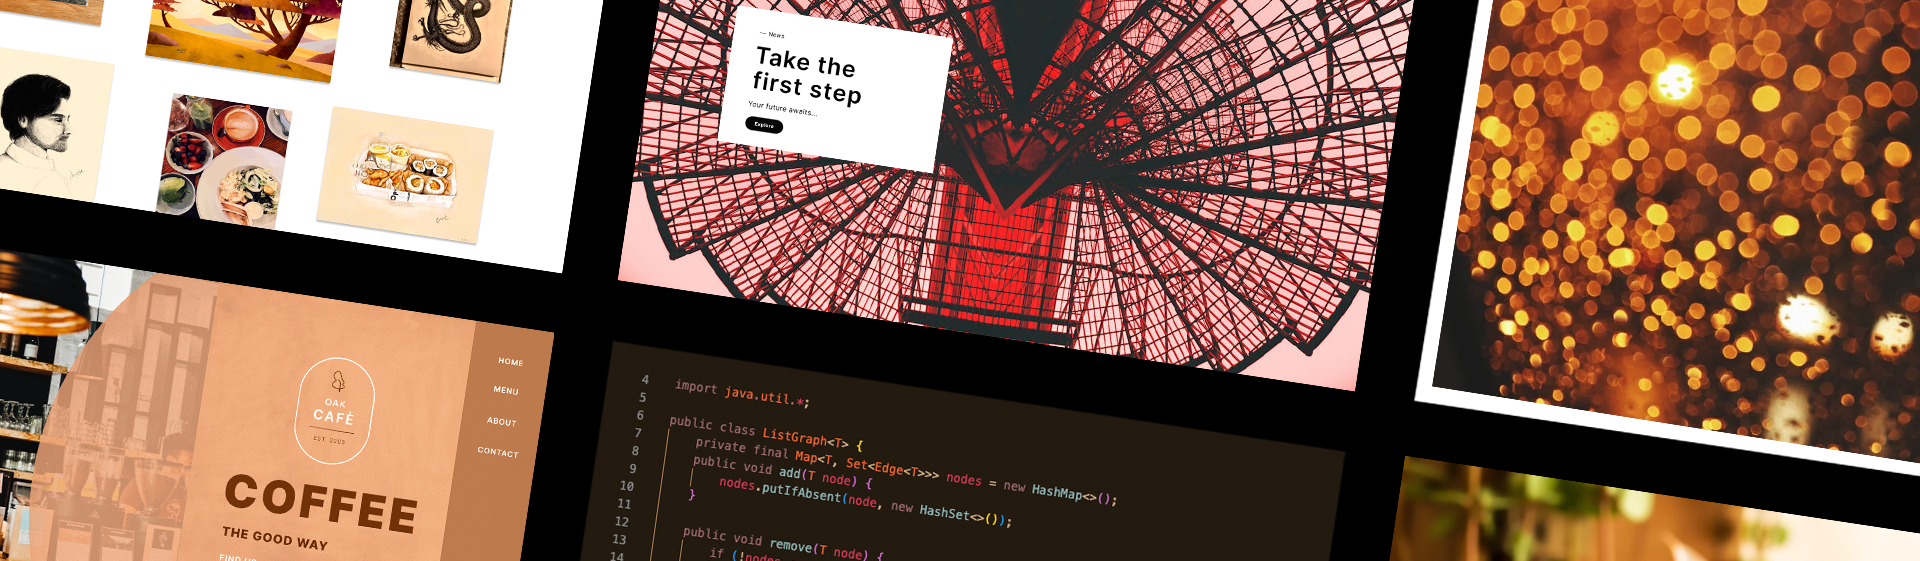
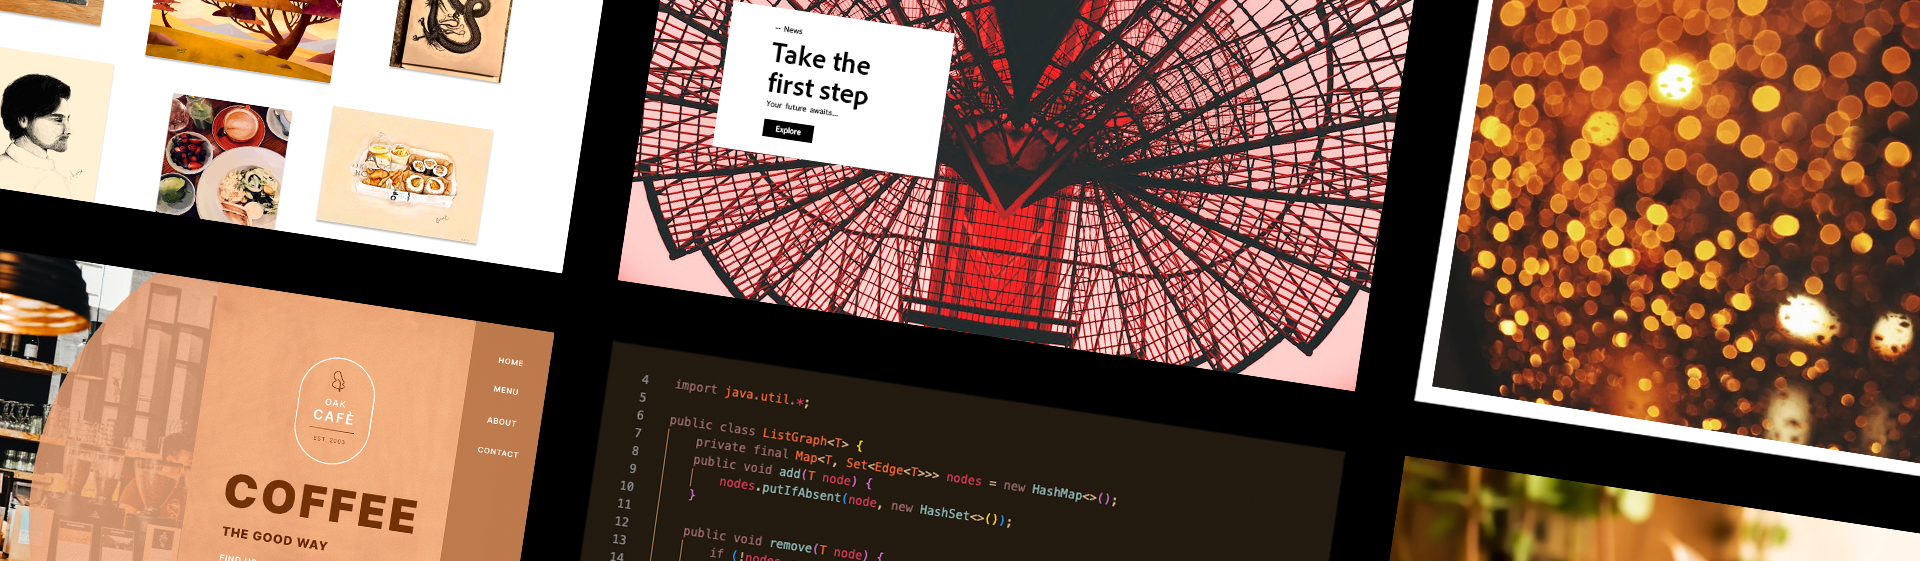
Change font and margin-bottom for h1

Changed region(s): [[0.375, 0.0, 0.5, 0.303], [0.4688, 0.303, 0.5, 0.3333]]

diff --git a/src/styles.css b/src/styles.css
@@ -93,13 +93,15 @@ nav {
 
 
 h1 {
-    font-family: "DM Serif Display", serif;
-    font-weight: 400;
+    
+    font-weight: 200;
     font-style: normal;
+    font-size: 2.5em;
+    line-height: 1.35em;
     text-align: left;
     padding-left: 3em;
     margin-top: 55px;
-    margin-bottom: 40px;
+    margin-bottom: 60px;
 }
 
 #h1-slogan {
@@ -236,7 +238,6 @@ p {
 .project-link {
     color: rgb(255, 154, 45);
     font-family: "DM Serif Display", serif;
-    font-size: smaller;
 }
 
 .project-link:hover{

diff --git a/src/index.html b/src/index.html
@@ -23,7 +23,7 @@
             </div>
         </nav>
         <h1 id="h1-slogan">Curious about how things work. <br>Learning how to build them.</h1>
-        <img src="images/header-portfolio.png" alt="Header Image" class="header-image">
+        <img src="images/header8.png" alt="Header Image" class="header-image">
     </header>
     
     <main>
